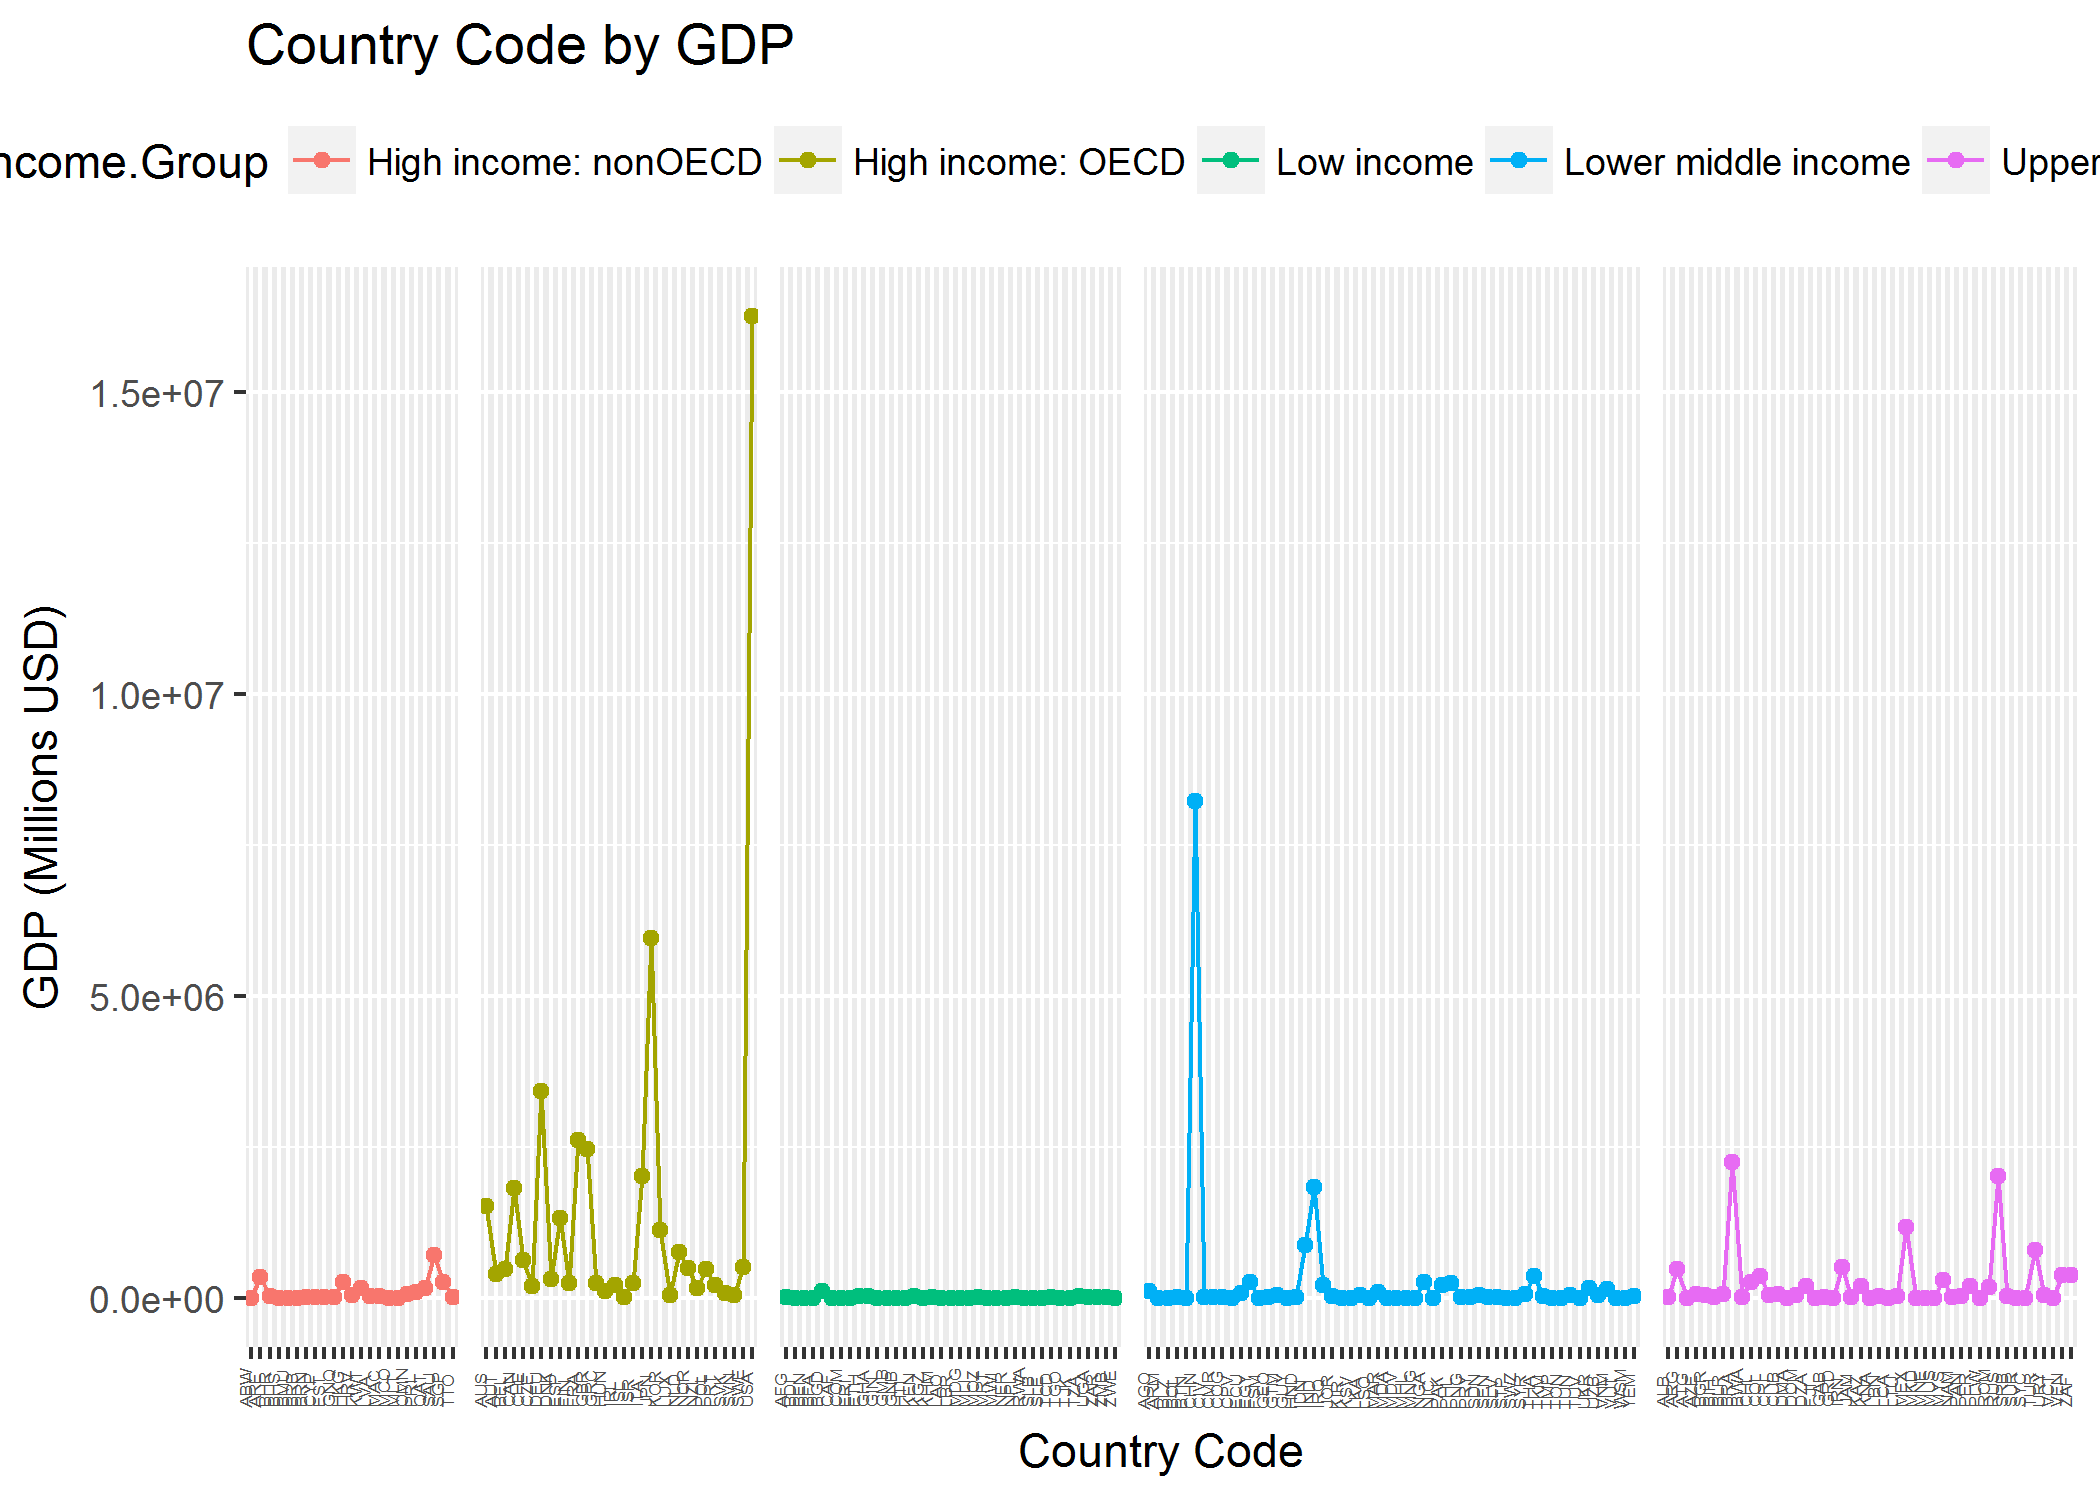
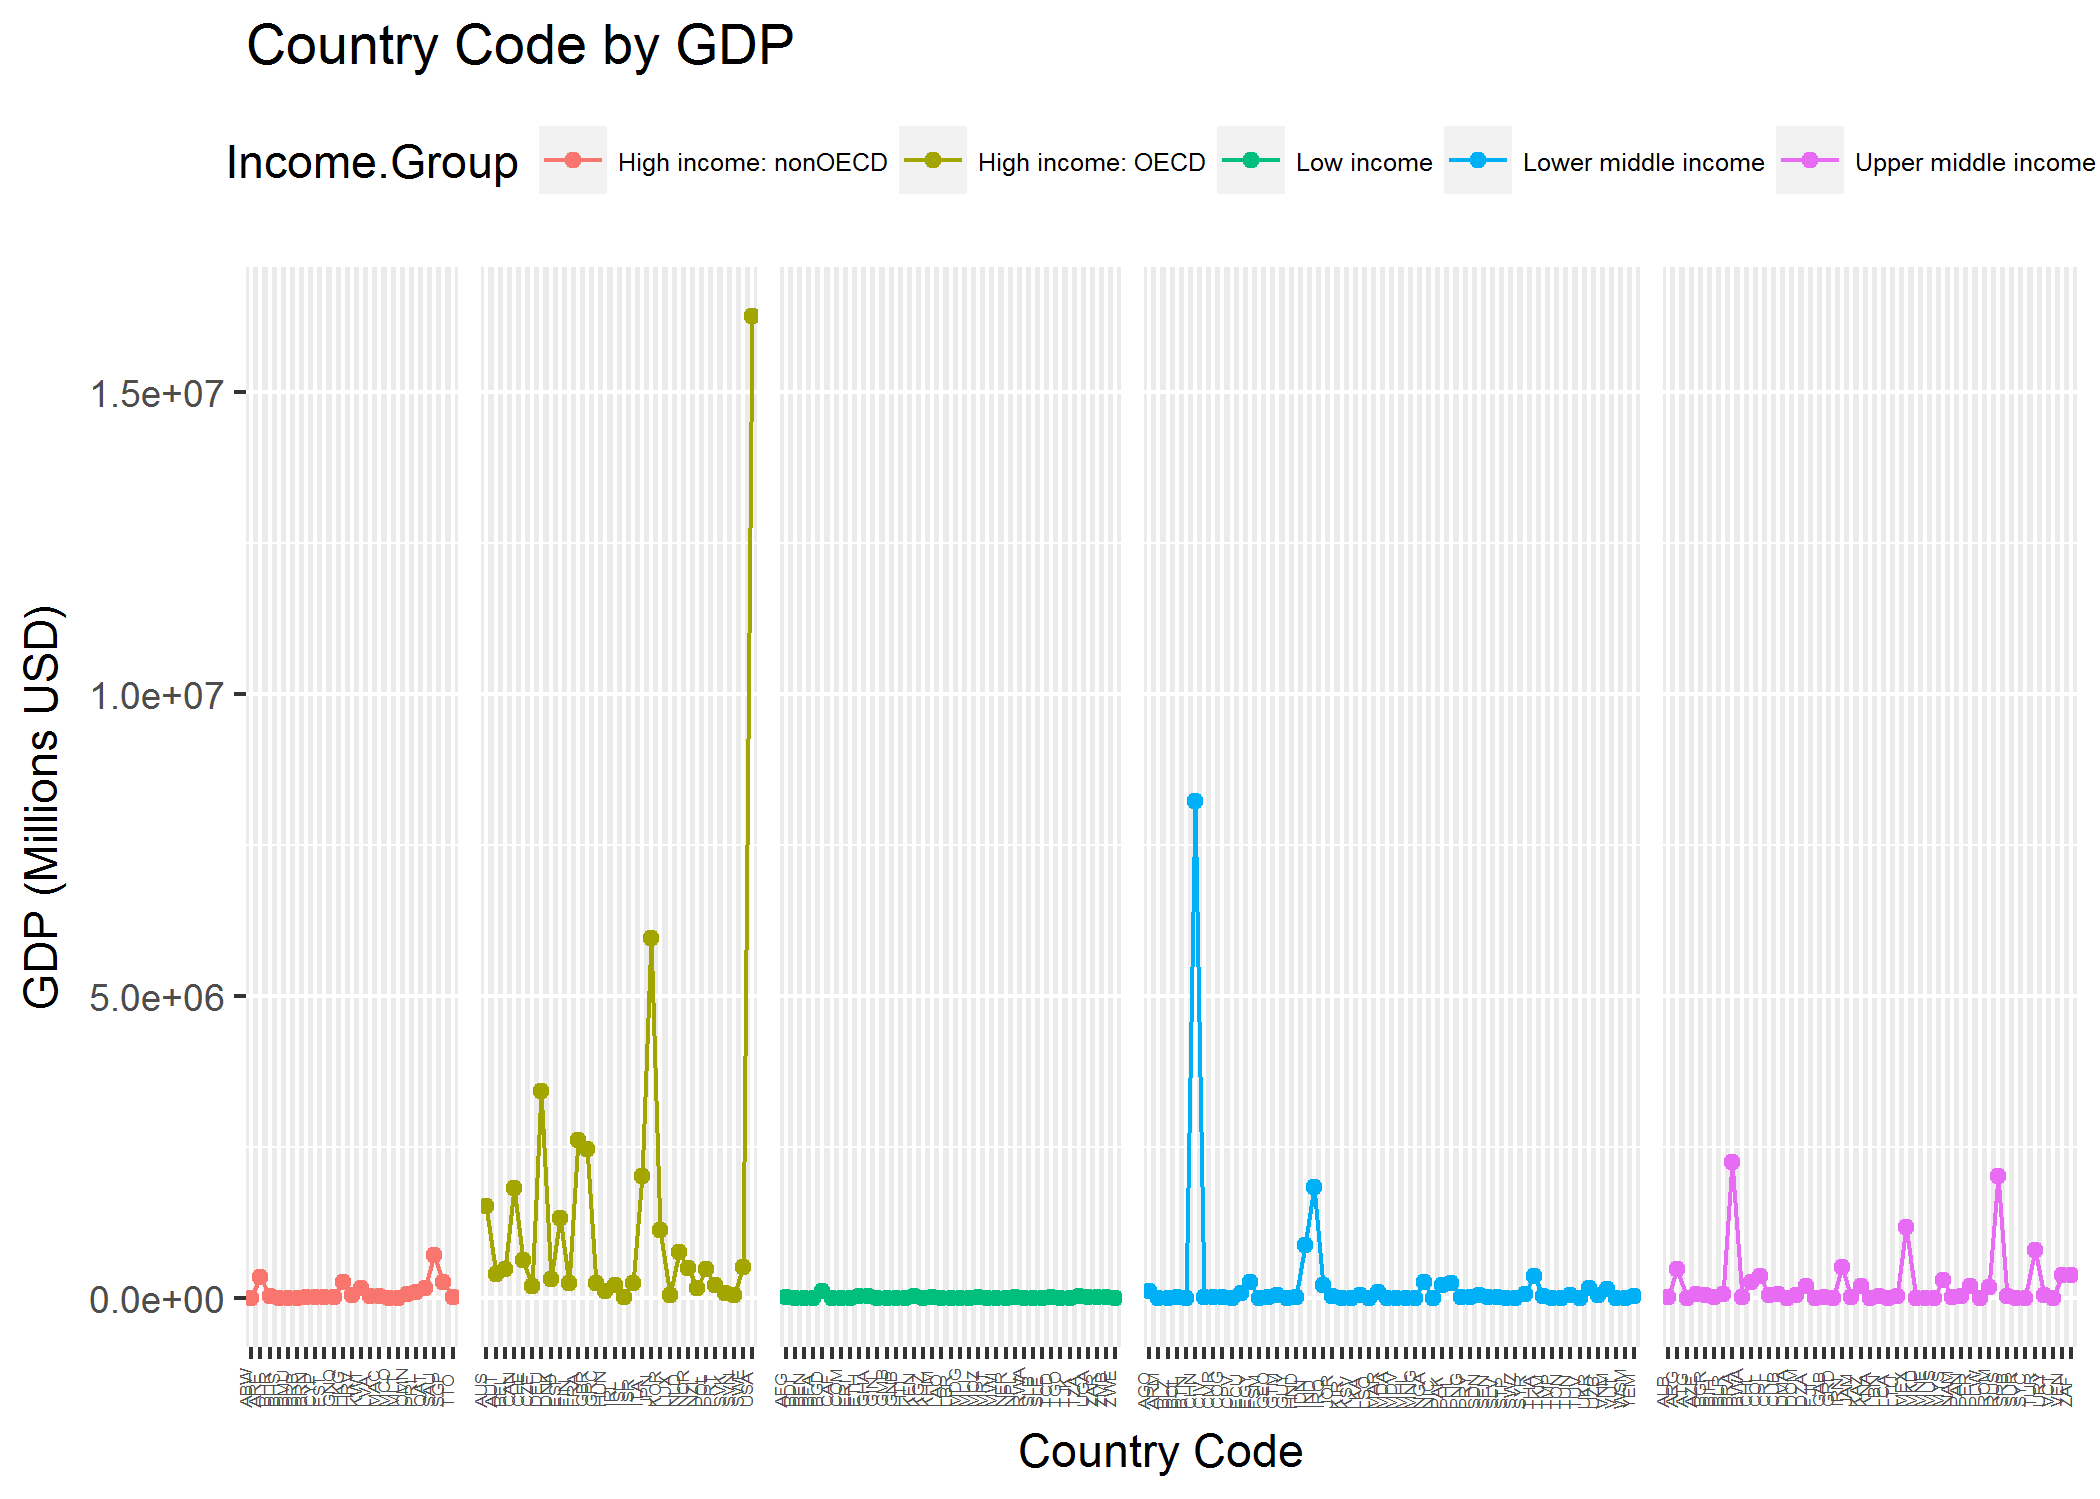
Change legend font size to fit the graph legend text

Changed region(s): [[0.0, 0.0921, 1.0, 0.1227]]

diff --git a/report.md b/report.md
@@ -15,6 +15,17 @@ cleaned_EDU_Data <- read.csv("data/cleaned_EDU_Data.txt",header=T, sep="\t")
 library(dplyr)
 ```
 
+    ## 
+    ## Attaching package: 'dplyr'
+
+    ## The following objects are masked from 'package:stats':
+    ## 
+    ##     filter, lag
+
+    ## The following objects are masked from 'package:base':
+    ## 
+    ##     intersect, setdiff, setequal, union
+
 <b>Question 1: 1 Merge the data based on the country shortcode. How many IDs matched?</b>
 
 ``` r
@@ -138,9 +149,10 @@ ggsave(filename = "graphs/CountryCode_vs_GDP.png", device="png", plot=plot1)
 # corresponding to countries in different income group appear in different splitted section.
 plot2 <- ggplot(merged_Data, aes(x=Country.Code,y=GDP.in.Millions.USD, colour=Income.Group,
     group=Income.Group )) + geom_point() + geom_line() + theme(strip.background = element_blank(),
-    strip.text.x = element_blank(), legend.position="top", axis.text.x = element_text(angle = 90,
-    hjust = 0, size=4, vjust=0)) + facet_grid(. ~ Income.Group,drop = F,  scales = "free", space 
-    ="free") + xlab("Country Code") + ylab("GDP (Millions USD)") + ggtitle("Country Code by GDP")
+    strip.text.x = element_blank(), legend.position="top", legend.text=element_text(size=6), 
+    axis.text.x = element_text(angle = 90, hjust = 0, size=4, vjust=0)) + facet_grid(. ~ Income.Group, 
+    drop = F,  scales = "free", space ="free") + xlab("Country Code") + ylab("GDP (Millions USD)") +
+    ggtitle("Country Code by GDP")
 # Save the plot
 ggsave(filename = "graphs/Modified CountryCode_vs_GDP.png", device="png", plot=plot2)
 ```
